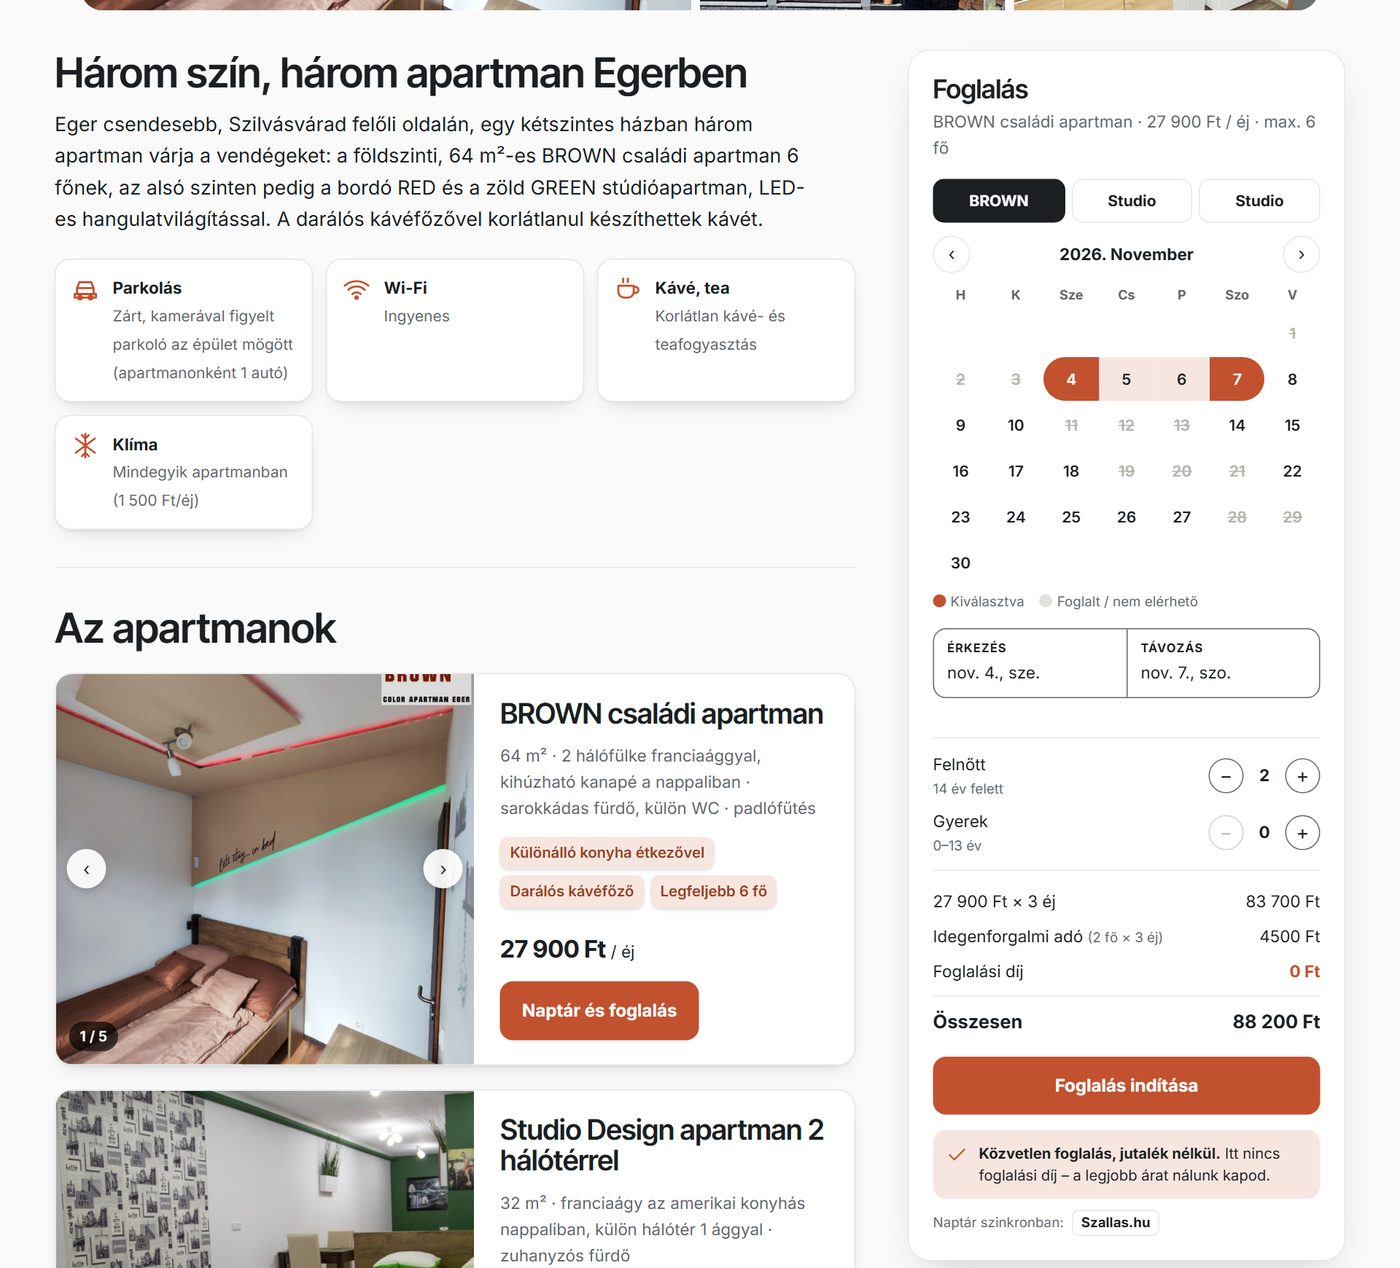
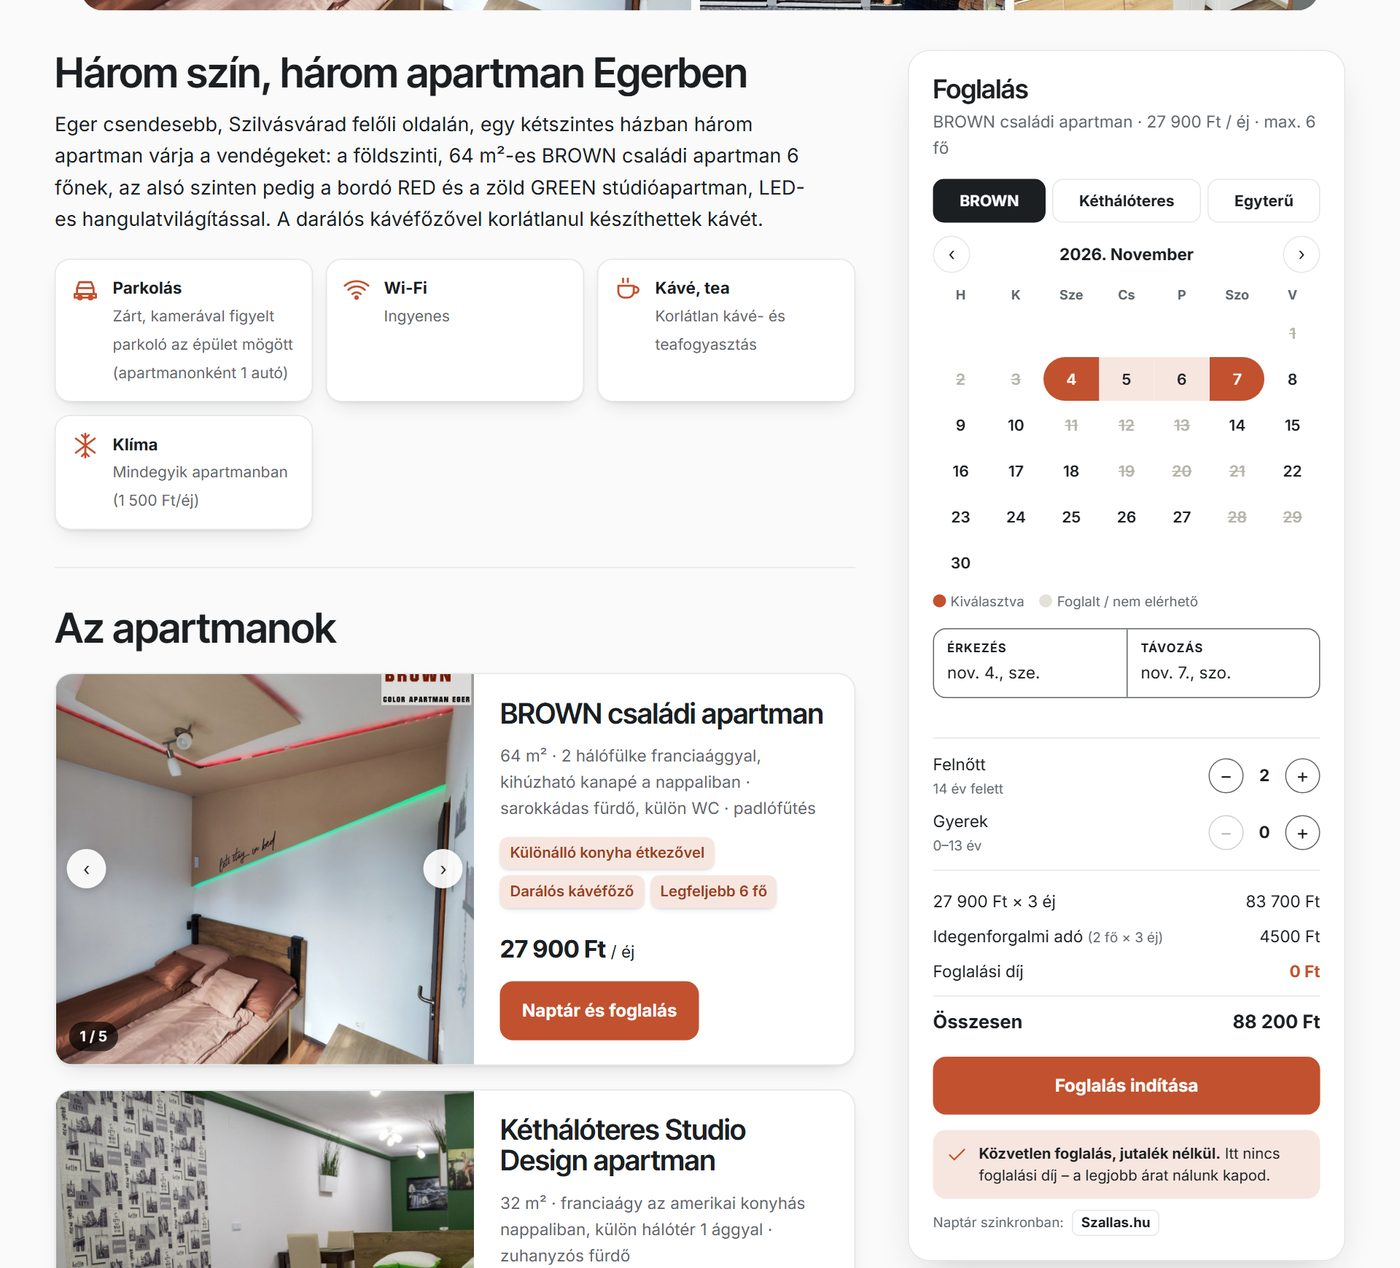
Color Apartmanok: egységnevek

Changed region(s): [[0.3379, 0.8612, 0.5836, 0.9227], [0.6757, 0.123, 0.8293, 0.1845], [0.8907, 0.1538, 0.9214, 0.1845]]

diff --git a/minta/color-apartmanok-eger/index.html b/minta/color-apartmanok-eger/index.html
@@ -353,7 +353,7 @@ footer b{font-family:var(--fh);font-size:22px;color:#fff}
   <symbol id="i-bed" viewBox="0 0 24 24"><path d="M3 18V7M3 13h18v5M21 18v-3a3 3 0 0 0-3-3h-8v1"/><circle cx="7" cy="10" r="2"/></symbol>
 </svg>
 
-<script type="application/json" id="hzdata">{"units": [{"name": "BROWN családi apartman", "price": 27900, "max": 6, "spec": "64 m² · 2 hálófülke franciaággyal, kihúzható kanapé a nappaliban · sarokkádas fürdő, külön WC · padlófűtés", "tags": ["Különálló konyha étkezővel", "Darálós kávéfőző", "Legfeljebb 6 fő"], "pics": [["brown_halo", "Hálófülke franciaággyal"], ["brown_eloter", "Előszoba és nappali"], ["konyha", "Konyha"], ["konyha2", "Konyha étkezővel"], ["folyoso", "Nappali"]], "id": "u0", "maxAd": 6, "pet": false, "booked": [[1, 4], [12, 3], [20, 3], [29, 2], [37, 4], [45, 4], [54, 3]]}, {"name": "Studio Design apartman 2 hálótérrel", "price": 18900, "max": 3, "spec": "32 m² · franciaágy az amerikai konyhás nappaliban, külön hálótér 1 ággyal · zuhanyzós fürdő", "tags": ["LED hangulatvilágítás", "Amerikai konyha", "Legfeljebb 3 fő"], "pics": [["green_halo", "GREEN stúdióapartman"], ["green_konyha", "Amerikai konyha"], ["green_nappali", "Nappali"], ["green", "A GREEN apartman"], ["furdo", "Zuhanyzós fürdő"]], "id": "u1", "maxAd": 3, "pet": false, "booked": [[2, 3], [11, 2], [15, 4], [24, 5], [32, 5], [43, 4], [54, 5]]}, {"name": "Studio Design apartman 1 hálótérrel", "price": 18900, "max": 3, "spec": "32 m² · franciaágy és egy szimpla ágy, kanapé · zuhanyzós fürdő", "tags": ["LED hangulatvilágítás", "Amerikai konyha", "Legfeljebb 3 fő"], "pics": [["red_halo", "RED stúdióapartman"], ["red", "A RED apartman"], ["halo2", "Franciaágy"], ["red_furdo", "Fürdőszoba"], ["nappali2", "Nappali és konyha"]], "id": "u2", "maxAd": 3, "pet": false, "booked": [[3, 2], [10, 5], [21, 2], [28, 5], [40, 3], [45, 4], [51, 2], [55, 2]]}], "clean": 0, "pet": 0, "ifa": 750, "min": 1, "gal": [["brown_halo", "BROWN családi apartman"], ["green_halo", "GREEN stúdióapartman"], ["red_halo", "RED stúdióapartman"], ["haz", "A ház"], ["konyha", "Felszerelt konyha"], ["haz", "A ház"], ["haz2", "A ház az utcáról"], ["terasz", "Kerti ülősarok"], ["bejarat", "Bejárat"], ["ora", "Részlet"], ["green2", "GREEN apartman"], ["brown_eloter", "BROWN apartman"], ["red", "RED apartman"]], "galShow": [["haz", "A ház"], ["haz2", "A ház az utcáról"], ["terasz", "Kerti ülősarok"], ["bejarat", "Bejárat"], ["ora", "Részlet"], ["green2", "GREEN apartman"], ["brown_eloter", "BROWN apartman"], ["red", "RED apartman"]], "ext": ".jpg"}</script>
+<script type="application/json" id="hzdata">{"units": [{"name": "BROWN családi apartman", "price": 27900, "max": 6, "spec": "64 m² · 2 hálófülke franciaággyal, kihúzható kanapé a nappaliban · sarokkádas fürdő, külön WC · padlófűtés", "tags": ["Különálló konyha étkezővel", "Darálós kávéfőző", "Legfeljebb 6 fő"], "pics": [["brown_halo", "Hálófülke franciaággyal"], ["brown_eloter", "Előszoba és nappali"], ["konyha", "Konyha"], ["konyha2", "Konyha étkezővel"], ["folyoso", "Nappali"]], "id": "u0", "maxAd": 6, "pet": false, "booked": [[1, 4], [12, 3], [20, 3], [29, 2], [37, 4], [45, 4], [54, 3]]}, {"name": "Kéthálóteres Studio Design apartman", "price": 18900, "max": 3, "spec": "32 m² · franciaágy az amerikai konyhás nappaliban, külön hálótér 1 ággyal · zuhanyzós fürdő", "tags": ["LED hangulatvilágítás", "Amerikai konyha", "Legfeljebb 3 fő"], "pics": [["green_halo", "GREEN stúdióapartman"], ["green_konyha", "Amerikai konyha"], ["green_nappali", "Nappali"], ["green", "A GREEN apartman"], ["furdo", "Zuhanyzós fürdő"]], "id": "u1", "maxAd": 3, "pet": false, "booked": [[2, 3], [11, 2], [15, 4], [24, 5], [32, 5], [43, 4], [54, 5]]}, {"name": "Egyterű Studio Design apartman", "price": 18900, "max": 3, "spec": "32 m² · franciaágy és egy szimpla ágy, kanapé · zuhanyzós fürdő", "tags": ["LED hangulatvilágítás", "Amerikai konyha", "Legfeljebb 3 fő"], "pics": [["red_halo", "RED stúdióapartman"], ["red", "A RED apartman"], ["halo2", "Franciaágy"], ["red_furdo", "Fürdőszoba"], ["nappali2", "Nappali és konyha"]], "id": "u2", "maxAd": 3, "pet": false, "booked": [[3, 2], [10, 5], [21, 2], [28, 5], [40, 3], [45, 4], [51, 2], [55, 2]]}], "clean": 0, "pet": 0, "ifa": 750, "min": 1, "gal": [["brown_halo", "BROWN családi apartman"], ["green_halo", "GREEN stúdióapartman"], ["red_halo", "RED stúdióapartman"], ["haz", "A ház"], ["konyha", "Felszerelt konyha"], ["haz", "A ház"], ["haz2", "A ház az utcáról"], ["terasz", "Kerti ülősarok"], ["bejarat", "Bejárat"], ["ora", "Részlet"], ["green2", "GREEN apartman"], ["brown_eloter", "BROWN apartman"], ["red", "RED apartman"]], "galShow": [["haz", "A ház"], ["haz2", "A ház az utcáról"], ["terasz", "Kerti ülősarok"], ["bejarat", "Bejárat"], ["ora", "Részlet"], ["green2", "GREEN apartman"], ["brown_eloter", "BROWN apartman"], ["red", "RED apartman"]], "ext": ".jpg"}</script>
 <script>
 (function () {
   'use strict';
